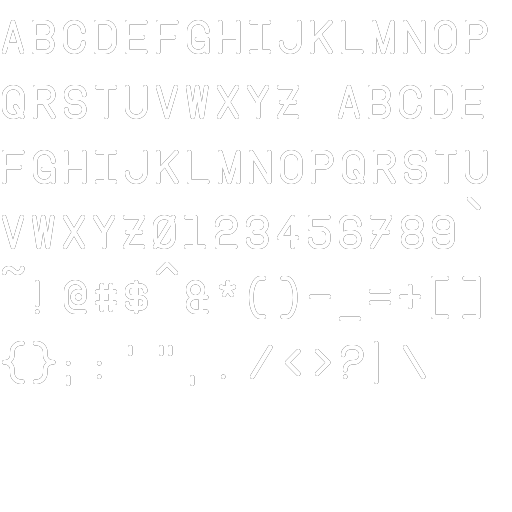
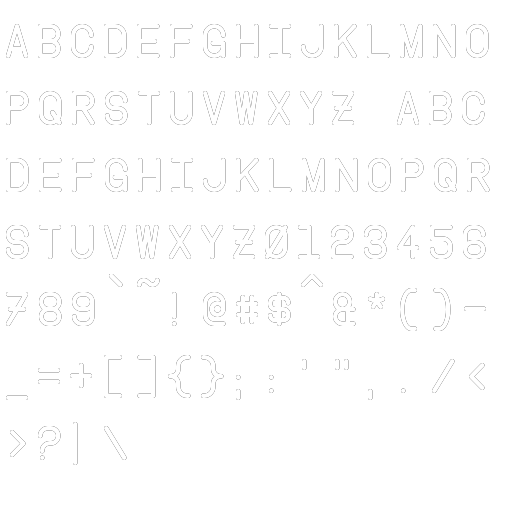
Trying to fix printing errors in gui.

diff --git a/FontCompiler/DataFont.h b/FontCompiler/DataFont.h
@@ -8,10 +8,12 @@
 using namespace std::literals;
 
 namespace cb {
-  static string toStr(glm::vec2 const& value) {
+  template<typename _Type>
+  string toStrVec2(_Type const& value) {
     return format(L"{0},{1}", value.x, value.y);
   }
-  static bool fromStr(string const& text, glm::vec2& outValue) {
+  template<typename _Type>
+  bool fromStrVec2(string const& text, _Type& outValue) {
     static const auto splitComma = L","s;
     auto list = split(text, splitComma);
     if(list.size() < 2)
@@ -20,42 +22,63 @@ namespace cb {
       fromStr(list[0], outValue.x) &&
       fromStr(list[1], outValue.y);
   }
+
+  static string toStr(glm::vec2 const& value) { return toStrVec2(value); }
+  static string toStr(glm::ivec2 const& value) { return toStrVec2(value); }
+  static string toStr(glm::uvec2 const& value) { return toStrVec2(value); }
+
+  static bool fromStr(string const& text, glm::vec2& outValue) {
+    return fromStrVec2(text, outValue);
+  }
+  static bool fromStr(string const& text, glm::ivec2& outValue) {
+    return fromStrVec2(text, outValue);
+  }
+  static bool fromStr(string const& text, glm::uvec2& outValue) {
+    return fromStrVec2(text, outValue);
+  }
 }
 
 namespace data {
   struct CFontChar {
     wchar_t mCode = 0;
-    glm::vec2 mPos;
-    glm::vec2 mSize;
-    glm::vec2 mTexMin;
-    glm::vec2 mTexMax;
-    glm::vec2 mAdv;
+    glm::ivec2 mMin;
+    glm::ivec2 mMax;
+    glm::uvec2 mTexMin;
+    glm::uvec2 mTexMax;
+    glm::ivec2 mAdv;
   };
 
   struct CFont {
     cb::string mName;
     cb::string mTexture;
+    cb::u32 mLineHeight;
+    cb::s32 mAscent;
+    cb::s32 mDescent;
+    glm::uvec2 mTextureSize;
     std::vector<CFontChar> mChars;
   };
 
   static const auto XML_FONTCHAR_CODE = L"Code"s;
-  static const auto XML_FONTCHAR_POS = L"Pos"s;
-  static const auto XML_FONTCHAR_SIZE = L"Size"s;
+  static const auto XML_FONTCHAR_MIN = L"Min"s;
+  static const auto XML_FONTCHAR_MAX = L"Max"s;
   static const auto XML_FONTCHAR_TEXMIN = L"TexMin"s;
   static const auto XML_FONTCHAR_TEXMAX = L"TexMax"s;
   static const auto XML_FONTCHAR_ADV = L"Adv"s;
 
   static const auto XML_FONT_NAME = L"Name"s;
   static const auto XML_FONT_TEXTURE = L"Texture"s;
+  static const auto XML_FONT_TEXTURESIZE = L"TextureSize"s;
   static const auto XML_FONT_CHARS_ELEM = L"Char"s;
-
+  static const auto XML_FONT_LINEHEIGHT = L"LineHeight"s;
+  static const auto XML_FONT_ASCENT = L"Ascent";
+  static const auto XML_FONT_DESCENT = L"Descent";
 }
 
 CB_DEFINEXMLRW(data::CFontChar) {
   return
     RWAttribute(data::XML_FONTCHAR_CODE, mObject.mCode) &&
-    RWAttribute(data::XML_FONTCHAR_POS, mObject.mPos) &&
-    RWAttribute(data::XML_FONTCHAR_SIZE, mObject.mSize) &&
+    RWAttribute(data::XML_FONTCHAR_MIN, mObject.mMin) &&
+    RWAttribute(data::XML_FONTCHAR_MAX, mObject.mMax) &&
     RWAttribute(data::XML_FONTCHAR_TEXMIN, mObject.mTexMin) &&
     RWAttribute(data::XML_FONTCHAR_TEXMAX, mObject.mTexMax) &&
     RWAttribute(data::XML_FONTCHAR_ADV, mObject.mAdv);
@@ -65,6 +88,10 @@ CB_DEFINEXMLRW(data::CFont) {
   return
     RWAttribute(data::XML_FONT_NAME, mObject.mName) &&
     RWAttribute(data::XML_FONT_TEXTURE, mObject.mTexture) &&
+    RWAttribute(data::XML_FONT_TEXTURESIZE, mObject.mTextureSize) &&
+    RWAttribute(data::XML_FONT_LINEHEIGHT, mObject.mLineHeight) &&
+    RWAttribute(data::XML_FONT_ASCENT, mObject.mAscent) &&
+    RWAttribute(data::XML_FONT_DESCENT, mObject.mDescent) &&
     RWNodeList(mObject.mChars, data::XML_FONT_CHARS_ELEM);
 }
 

diff --git a/FontCompiler/FontCompiler.cpp b/FontCompiler/FontCompiler.cpp
@@ -29,6 +29,10 @@ bool CompileFont(CFontParams const & params) {
   auto outFont = data::CFont();
   outFont.mName = font.GetName();
   outFont.mTexture = cb::makefilename(params.OutputName, L"png"s);
+  outFont.mLineHeight = ctx.LineHeight;
+  outFont.mTextureSize = glm::uvec2(params.TexSize);
+  outFont.mAscent = font.GetAscent();
+  outFont.mDescent = font.GetDescent();
 
   for(auto& item : params.FontChars) {
     auto glyphSurface = font.RenderGlyphBlended(item, params.CharColor);
@@ -38,9 +42,9 @@ bool CompileFont(CFontParams const & params) {
     auto fontChar = data::CFontChar{item};
 
     ctx.RowHeight = std::max(ctx.RowHeight, glyphSize.y);
-    if(ctx.TexPos.x + glyphSize.x + 2 * params.TexCharBorder > params.TexSize) {
+    if(ctx.TexPos.x + glyphSize.x + params.TexCharBorder > params.TexSize) {
       ctx.TexPos.x = params.TexCharBorder;
-      ctx.TexPos.y += ctx.RowHeight + 2 * params.TexCharBorder;
+      ctx.TexPos.y += ctx.RowHeight + params.TexCharBorder;
       if(ctx.TexPos.y > params.TexSize) {
         break;
       }
@@ -48,13 +52,14 @@ bool CompileFont(CFontParams const & params) {
     }
 
     finalSurface.Paste(ctx.TexPos, glyphSurface);
-    fontChar.mTexMin = glm::vec2(ctx.TexPos) / glm::vec2(static_cast<float>(params.TexSize));
-    fontChar.mTexMax = glm::vec2(ctx.TexPos + glyphSize) / glm::vec2(static_cast<float>(params.TexSize));
-    ctx.TexPos.x += glyphSize.x + 2 * params.TexCharBorder;
+    fontChar.mTexMin = ctx.TexPos;// / glm::vec2(static_cast<float>(params.TexSize));
+    fontChar.mTexMax = ctx.TexPos + glyphSize;// / glm::vec2(static_cast<float>(params.TexSize));
 
-    fontChar.mPos = glm::vec2(metrics.min) / glm::vec2(static_cast<float>(ctx.LineHeight));
-    fontChar.mSize = glm::vec2(metrics.max - metrics.min) / glm::vec2(static_cast<float>(ctx.LineHeight));
-    fontChar.mAdv = glm::vec2(metrics.advance, 0.0f) / glm::vec2(static_cast<float>(ctx.LineHeight));
+    ctx.TexPos.x += glyphSize.x + params.TexCharBorder;
+
+    fontChar.mMin = metrics.min;// / glm::vec2(static_cast<float>(ctx.LineHeight));
+    fontChar.mMax = metrics.max;// / glm::vec2(static_cast<float>(ctx.LineHeight));
+    fontChar.mAdv = glm::ivec2(metrics.advance, 0);// / glm::vec2(static_cast<float>(ctx.LineHeight));
 
     outFont.mChars.push_back(fontChar);
   }

diff --git a/PongGame/Font.cpp b/PongGame/Font.cpp
@@ -34,11 +34,11 @@ namespace gfx {
     for(auto i = 0u; i < text.length()-1; i++) {
       auto data = GetChar(text[i]);
       result.x += data.mAdv.x;
-      result.y = glm::max(result.y, data.mSize.y);
+      result.y = glm::max(result.y, data.mMax.y - data.mMin.y);
     }
 
     auto data = GetChar(*text.rbegin());
-    result.x += data.mSize.x;
+    result.x += data.mMax.x - data.mMin.x;
 
     if(!charHeight) {
       result.y = glm::max(result.y, 1.0f);
@@ -60,26 +60,32 @@ namespace gfx {
     }
 
     auto font = CFont(dataFont.mTexture);
+    auto lineSize = glm::vec2(static_cast<float>(dataFont.mLineHeight));
+    auto texSize = glm::vec2(dataFont.mTextureSize);
 
     for(auto& dataChar : dataFont.mChars) {
       font.AddChar(dataChar.mCode, {
-        dataChar.mPos,
-        dataChar.mSize,
-        dataChar.mTexMin,
-        dataChar.mTexMax,
-        dataChar.mAdv
+        glm::vec2(dataChar.mMin.x, dataFont.mAscent - dataChar.mMin.y) / lineSize,
+        glm::vec2(dataChar.mMax.x, dataFont.mAscent - dataChar.mMax.y) / lineSize,
+        glm::vec2(dataChar.mTexMin.x, dataChar.mTexMax.y) / texSize,
+        glm::vec2(dataChar.mTexMax.x, dataChar.mTexMin.y) / texSize,
+        glm::vec2(dataChar.mAdv) / lineSize
       });
     }
 
     return font;
   }
 
+  glm::vec2 getOrg(glm::vec2 const& min, glm::vec2 const& max, glm::vec2 const& xy) {
+    auto nxy = glm::vec2(1.0f) - xy;
+    return min * nxy + max * xy;
+  }
+
   glm::vec2 CFont::CChar::getVPos(glm::ivec2 const& xy) const {
-    return mPos + mSize * glm::vec2(xy);
+    return getOrg(mMin, mMax, glm::vec2(xy));
   }
 
   glm::vec2 CFont::CChar::getVTex(glm::ivec2 const& xy) const {
-    auto nxy = glm::vec2(1.0f) - glm::vec2(xy);
-    return mTexMin * nxy + mTexMax * glm::vec2(xy);
+    return getOrg(mTexMin, mTexMax, glm::vec2(xy));
   }
 }

diff --git a/PongGame/GFXCanvas.cpp b/PongGame/GFXCanvas.cpp
@@ -68,10 +68,7 @@ namespace gfx {
       mVertices.push_back({pos + glyph.getVPos({1, 1}) * scale, glyph.getVTex({1, 1}), col});
       mVertices.push_back({pos + glyph.getVPos({0, 1}) * scale, glyph.getVTex({0, 1}), col});
 
-      std::transform(std::begin(idx), std::end(idx), std::back_inserter(mIndices),
-                     [i](auto& item) -> auto{
-        return static_cast<cb::u16>(i + item);
-      });
+      for(auto& item : idx) { mIndices.push_back(static_cast<cb::u16>(i + item)); }
 
       pos += glyph.mAdv * scale;
     }

diff --git a/PongGame/Font.h b/PongGame/Font.h
@@ -12,8 +12,8 @@ namespace gfx {
   class CFont {
   public:
     struct CChar {
-      glm::vec2 mPos;
-      glm::vec2 mSize;
+      glm::vec2 mMin;
+      glm::vec2 mMax;
       glm::vec2 mTexMin;
       glm::vec2 mTexMax;
       glm::vec2 mAdv;
@@ -24,6 +24,8 @@ namespace gfx {
   private:
     std::map<wchar_t, CChar> mChars;
     float mLineHeight;
+    float mAscent;
+    float mDescent;
     cb::string mTextureFilePath;
 
   public:

diff --git a/FontCompiler/main.cpp b/FontCompiler/main.cpp
@@ -32,7 +32,7 @@ int main(int argc, char* argv[]) {
   params.TexSize = 512u;
   params.FontSize = 46u;
   params.FontChars = L"abcdefghijklmnopqrstuvwxyz ABCDEFGHIJKLMNOPQRSTUVWXYZ0123456789`~!@#$^&*()-_=+[]{};:'\",./<>?|\\"s;
-  params.TexCharBorder = 2u;
+  params.TexCharBorder = 6u;
   params.CharColor = glm::vec4(1.0f);
   params.OutputName = L"font";
   params.OutputPath = L"../PongGame/";
